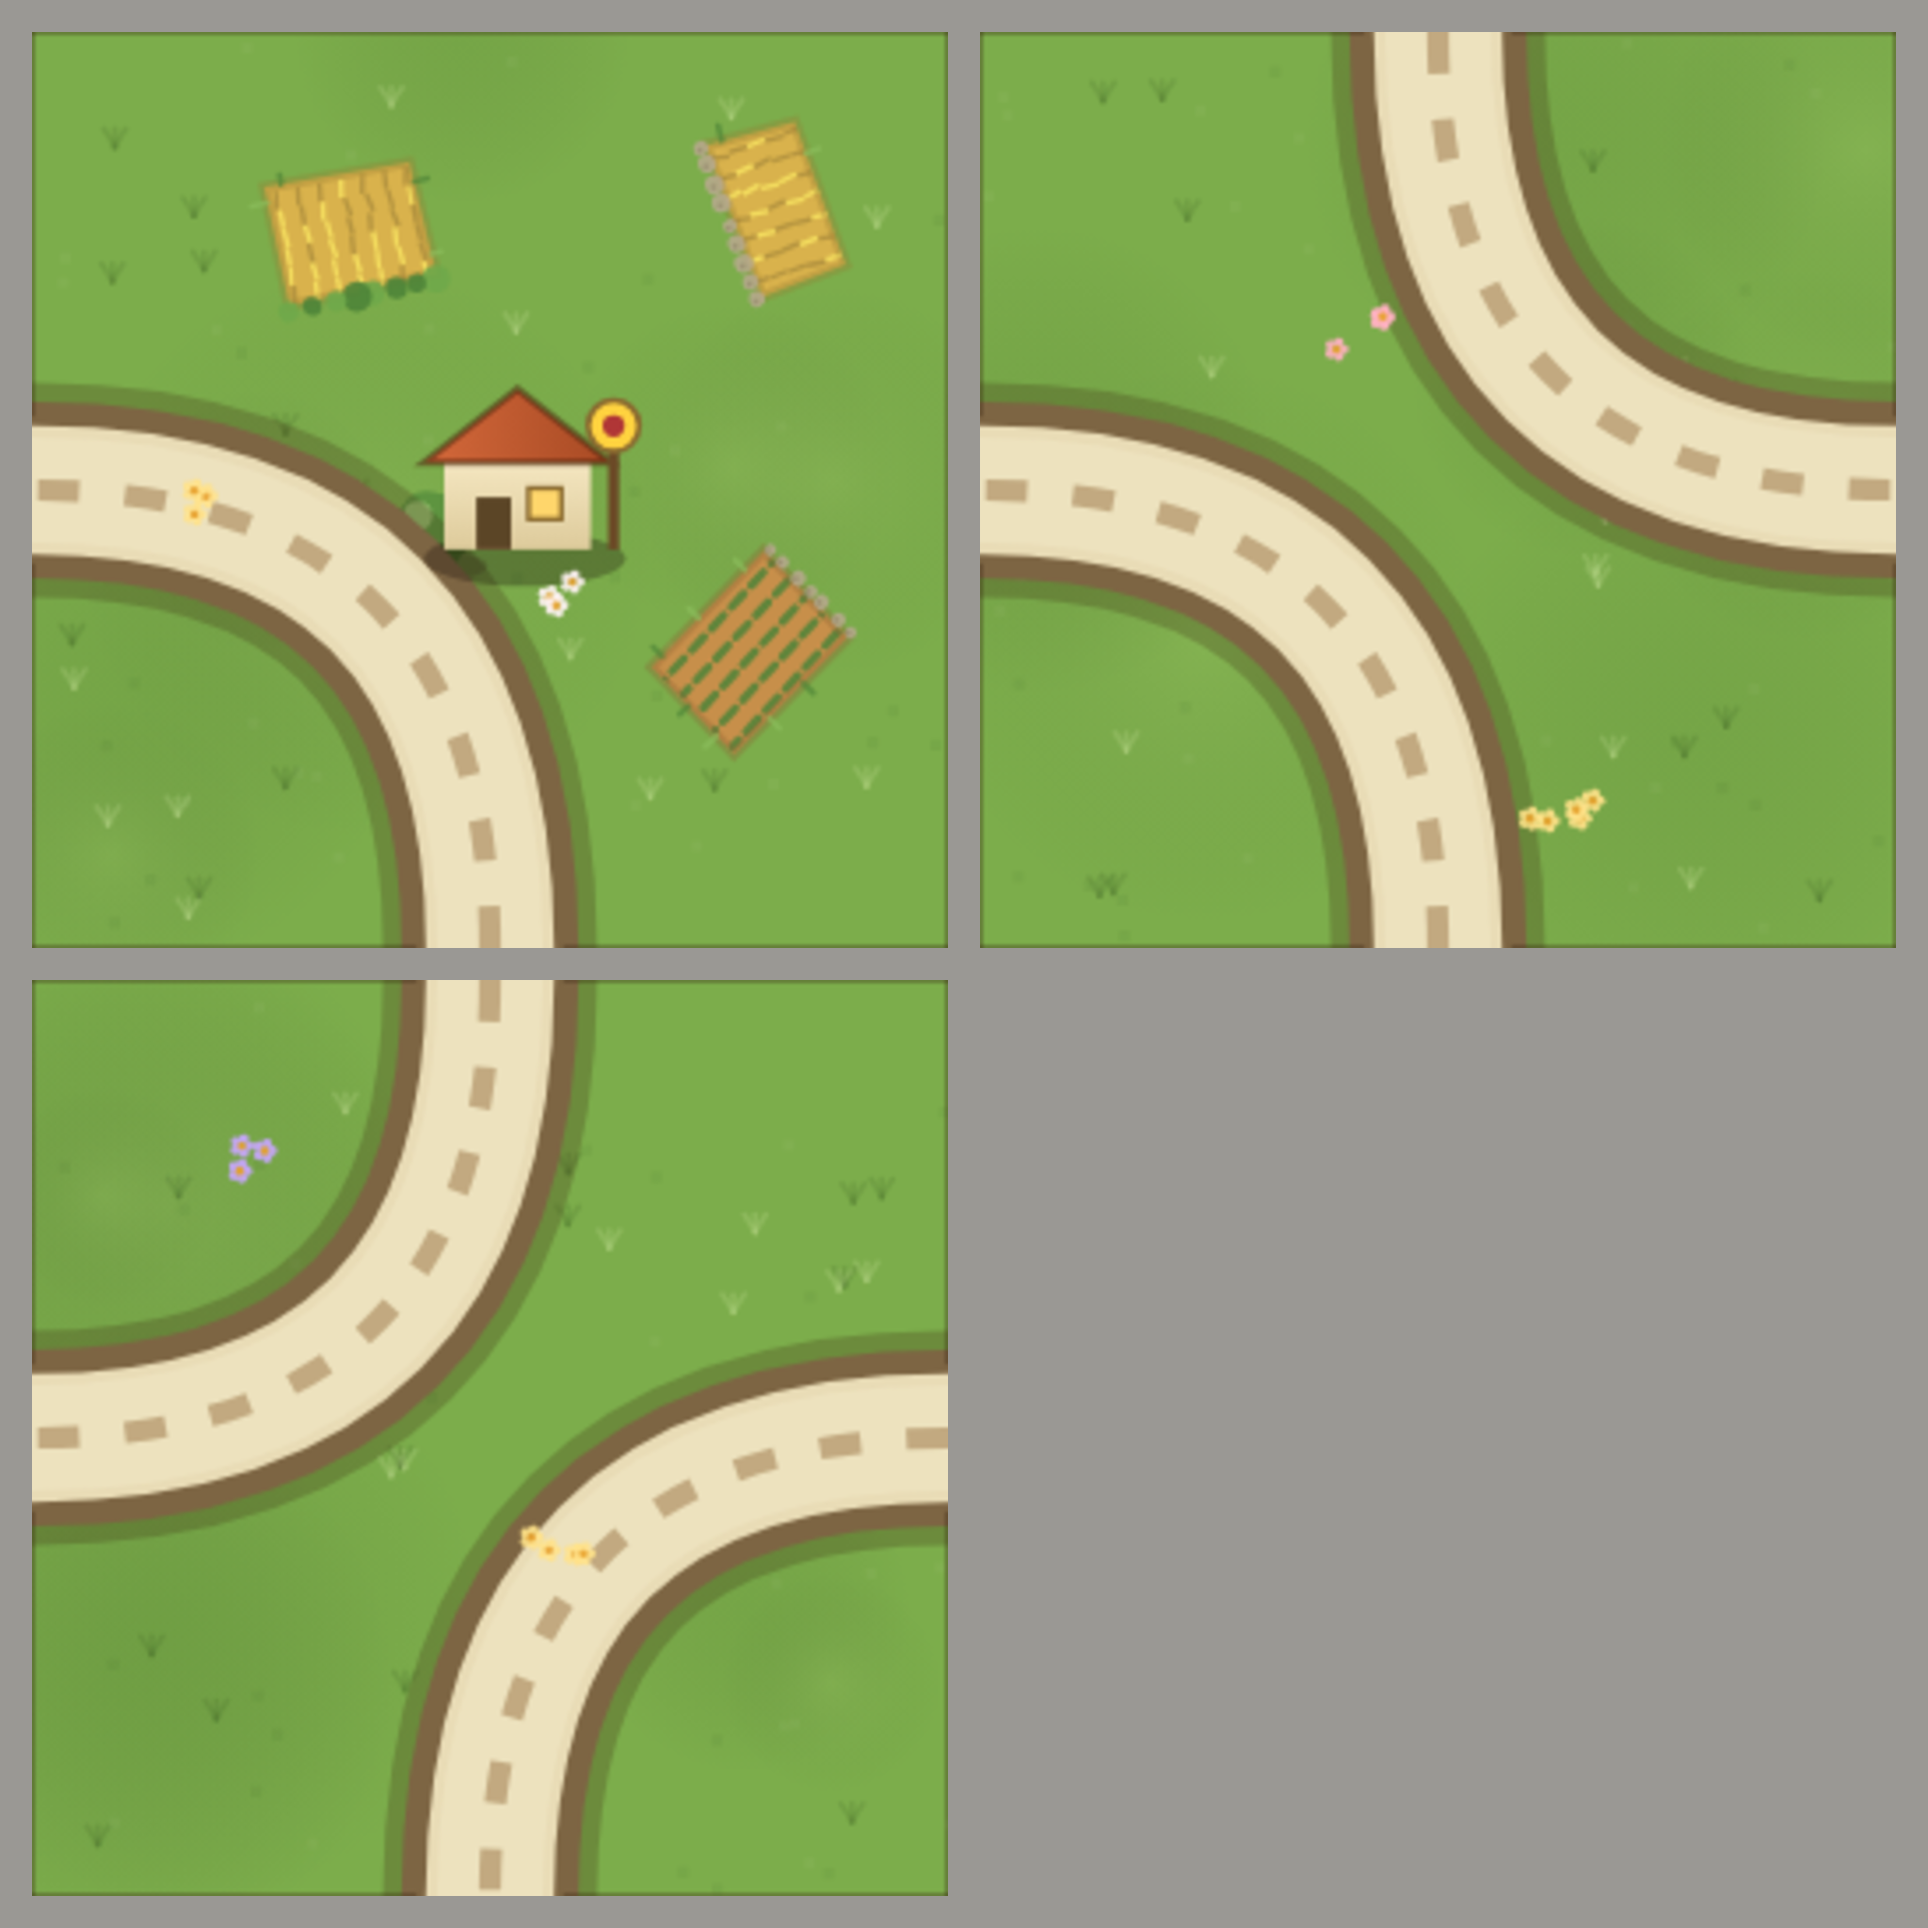
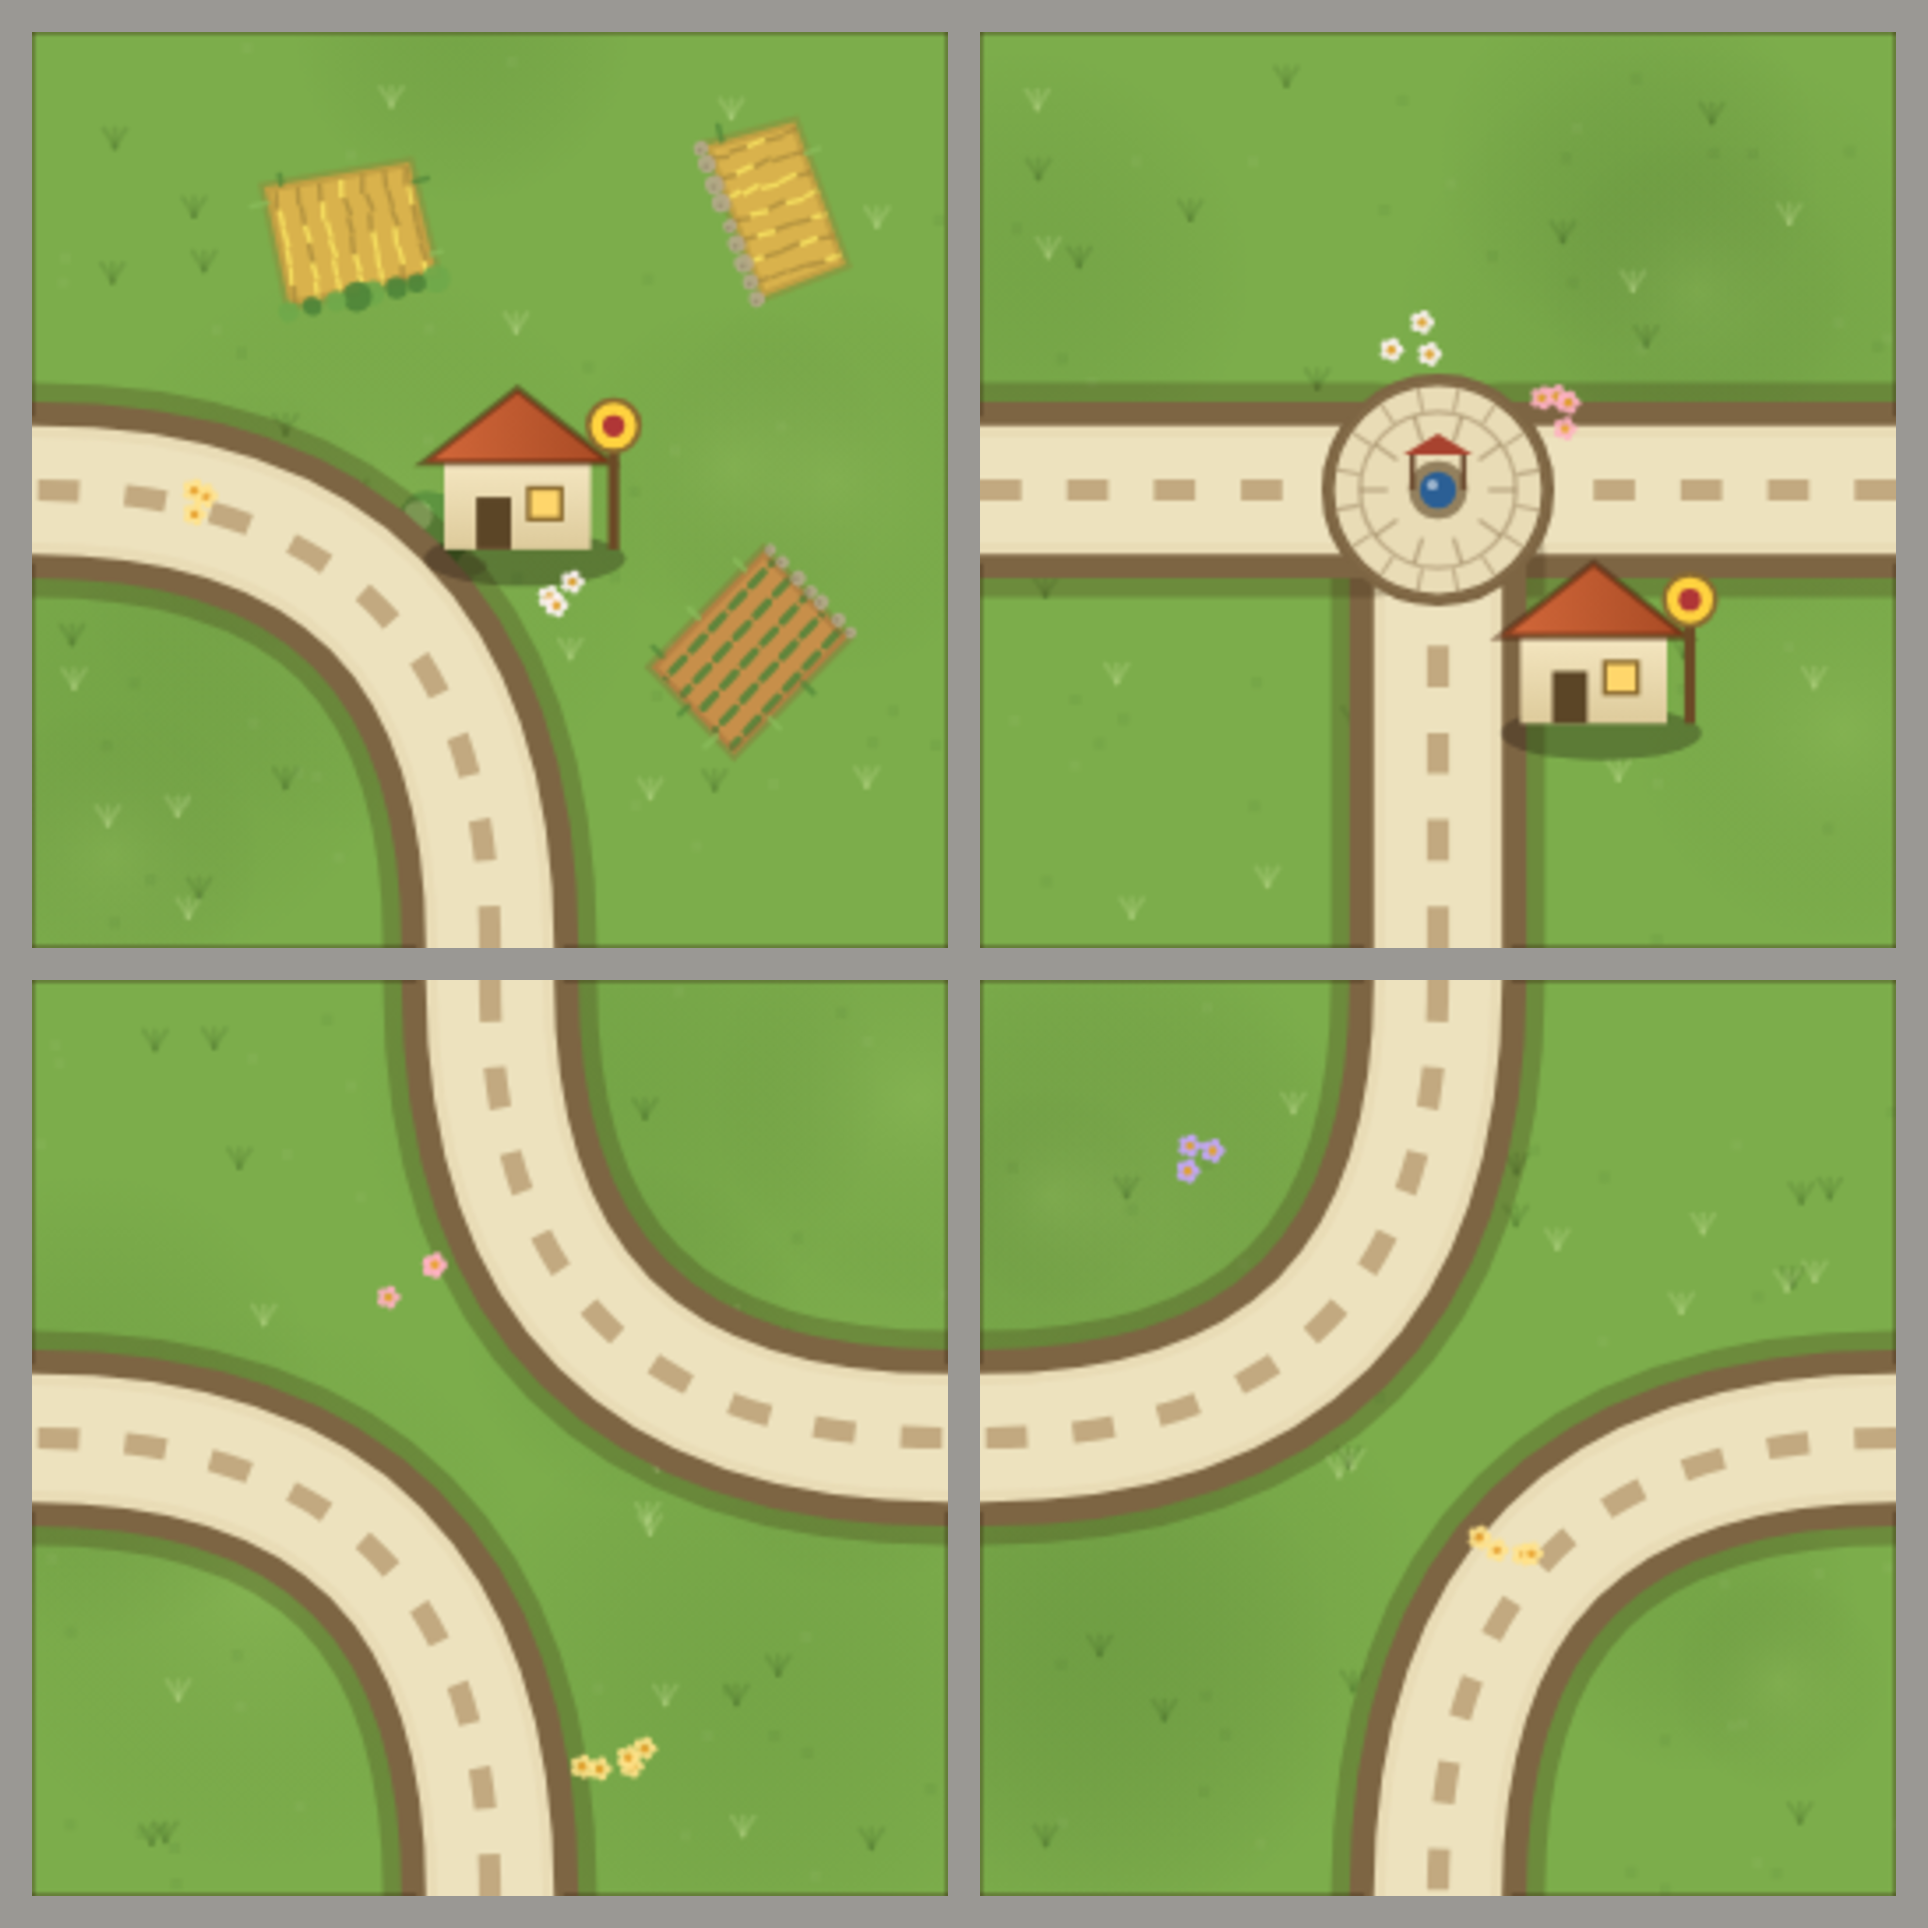
Bögen 15 und 17 neu aufgeteilt
Bogen 15 hatte nach dem Wegfall von V nur noch drei Karten und damit ein
leeres Viertel. Mit EC_INN_TJUNC von Bogen 17 ist er wieder voll und
zugleich thematisch geschlossen: vier reine Wegkarten ohne jede Stadt.
Die drei verbleibenden Karten von Bogen 17 haben alle Stadt und Weg.

Claude-Session: https://claude.ai/code/session_01TzwhRkaP88oXYFmHGtESW9

diff --git a/grafik/PROMPTS.md b/grafik/PROMPTS.md
@@ -23,9 +23,9 @@ Bogen 03 und 06 sind byte-identisch; Bogen 06 ist eine Dublette.
 
 | Bogen | Motive | Vorlage | Wirkung |
 |---|---|---|---|
-| **15** | EC_INN_CURVE · EC_DOUBLE_CURVE · EC_DOUBLE_CURVE2 | `vorlagen/bogen15-vorlage.png` | Wirtshäuser, alle Kurven |
+| **15** | EC_INN_CURVE · EC_INN_TJUNC · EC_DOUBLE_CURVE · EC_DOUBLE_CURVE2 | `vorlagen/bogen15-vorlage.png` | reine Wegkarten, keine Stadt |
 | 16 | RV_BRIDGE · RV_CITY · RV_MON · RV_ROADCURVE | `vorlagen/bogen16-vorlage.png` | schließt den Fluss ab |
-| 17 | EC_INN_TJUNC · EC_INN_CITYCURVE · EC_INN_CITYSTRAIGHT · EC_CITY_DIAG | `vorlagen/bogen17-vorlage.png` | Wirtshäuser |
+| 17 | EC_INN_CITYCURVE · EC_INN_CITYSTRAIGHT · EC_CITY_DIAG | `vorlagen/bogen17-vorlage.png` | Stadt mit Weg, nur drei Karten |
 | 18 | EC_TRIPLE_CITY · EC_CITY_ROADPASS · EC_CROSS_CITY · EC_CITY_3SHIELD | `vorlagen/bogen18-vorlage.png` | Kathedralen |
 
 Das Grundspiel braucht keinen Bogen mehr. Seine letzte Lücke, die
